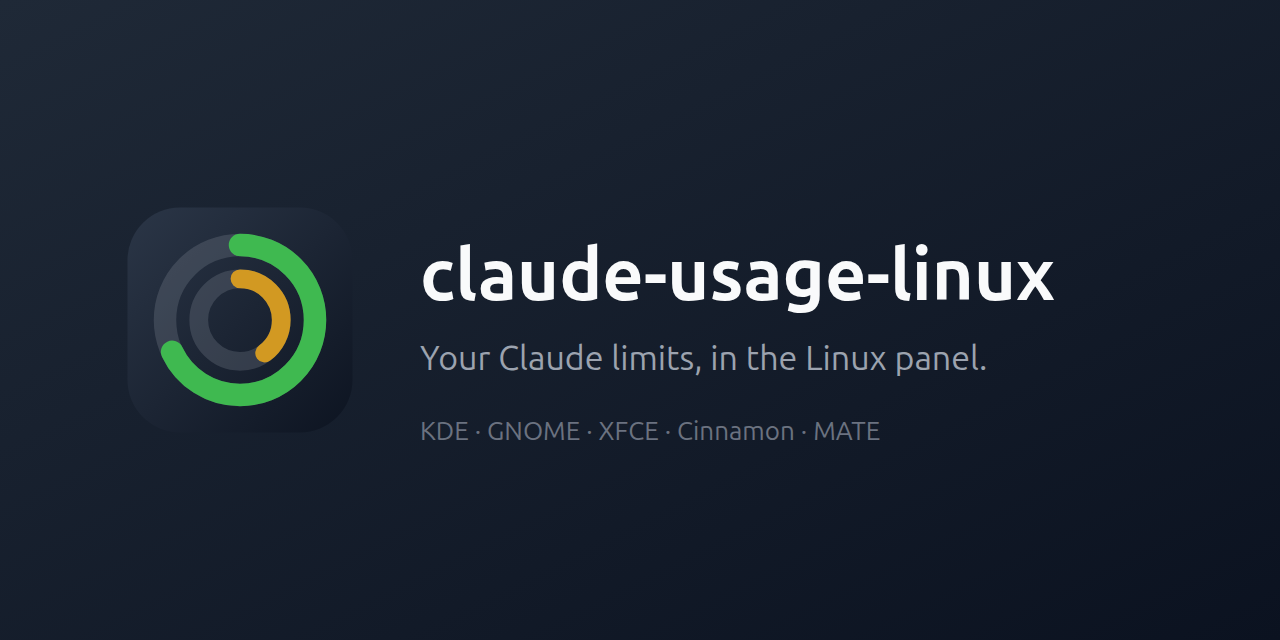
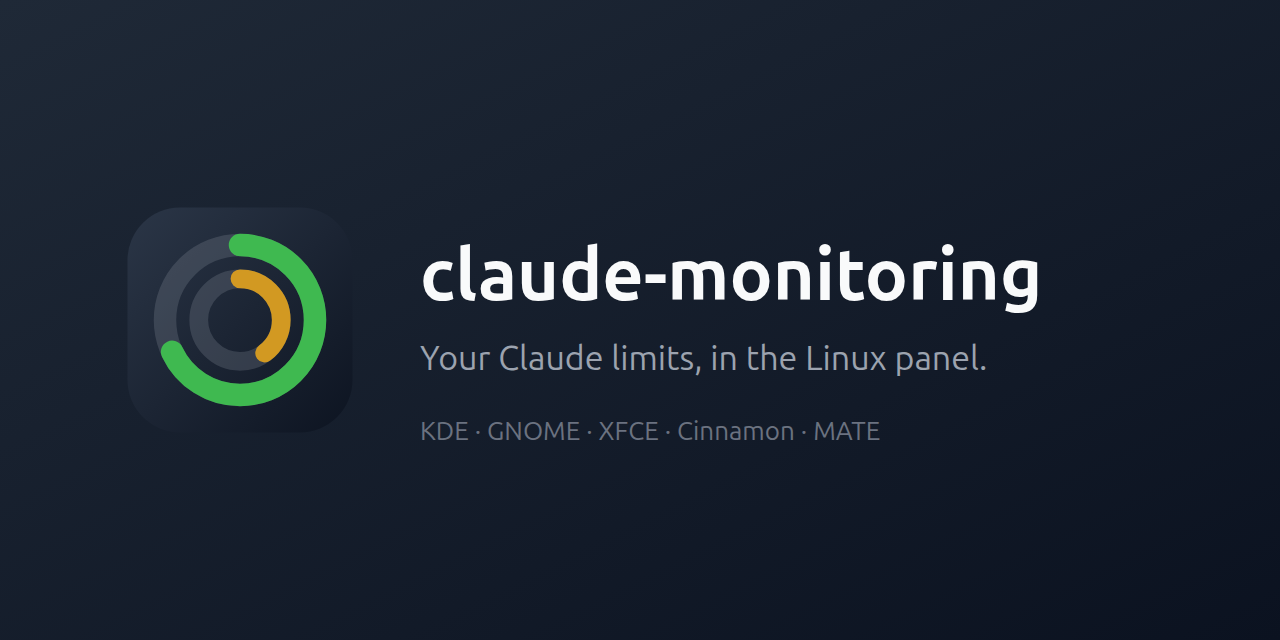
Rename to claude-monitoring (2.0.0)
Rename the repository, Debian package, command, Python module, config
folder and all URLs from claude-usage-linux to claude-monitoring.

- The new package Conflicts/Replaces/Provides claude-usage-linux, so
  installing it removes the old one.
- install.sh removes the old apt source and key first (its URL no longer
  exists, so apt update would fail) and stops the old running app.
- The config falls back to ~/.config/claude-usage-linux/config.json.

Changed region(s): [[0.5312, 0.375, 0.8438, 0.5]]

diff --git a/tests/test_install_script.py b/tests/test_install_script.py
@@ -9,7 +9,7 @@ from pathlib import Path
 ROOT = Path(__file__).resolve().parent.parent
 SCRIPT = ROOT / "install.sh"
 ONE_LINER = (
-    "curl -fsSL https://raw.githubusercontent.com/abdulahwahdi/claude-usage-linux/main/install.sh | sh"
+    "curl -fsSL https://raw.githubusercontent.com/abdulahwahdi/claude-monitoring/main/install.sh | sh"
 )
 DEB = b"fake deb\n"
 
@@ -28,7 +28,7 @@ echo "curl $url" >> "$STUB_LOG"
 case "$url" in
     *.gpg) [ -n "${CURL_KEY_FAIL:-}" ] && exit 22; printf KEY > "$out" ;;
     *.deb) printf 'fake deb\\n' > "${url##*/}" ;;
-    *SHA256SUMS) printf '%s  claude-usage-linux_all.deb\\n' "$DEB_SHA" > SHA256SUMS ;;
+    *SHA256SUMS) printf '%s  claude-monitoring_all.deb\\n' "$DEB_SHA" > SHA256SUMS ;;
 esac
 """
 
@@ -73,24 +73,36 @@ class InstallScriptTests(unittest.TestCase):
 
     def test_adds_signed_repository_and_installs(self):
         log = self._run()
-        keyring = self.root / "etc/apt/keyrings/claude-usage-linux.gpg"
-        listing = self.root / "etc/apt/sources.list.d/claude-usage-linux.list"
+        keyring = self.root / "etc/apt/keyrings/claude-monitoring.gpg"
+        listing = self.root / "etc/apt/sources.list.d/claude-monitoring.list"
         self.assertEqual(keyring.read_text(), "KEY")
         self.assertEqual(
             listing.read_text(),
-            "deb [signed-by=/etc/apt/keyrings/claude-usage-linux.gpg] "
-            "https://abdulahwahdi.github.io/claude-usage-linux/ ./\n",
+            "deb [signed-by=/etc/apt/keyrings/claude-monitoring.gpg] "
+            "https://abdulahwahdi.github.io/claude-monitoring/ ./\n",
         )
-        self.assertEqual(log[-2:], ["apt-get update", "apt-get install -y claude-usage-linux"])
+        self.assertEqual(log[-2:], ["apt-get update", "apt-get install -y claude-monitoring"])
+
+    def test_removes_pre_rename_repository(self):
+        old_list = self.root / "etc/apt/sources.list.d/claude-usage-linux.list"
+        old_key = self.root / "etc/apt/keyrings/claude-usage-linux.gpg"
+        for path in (old_list, old_key):
+            path.parent.mkdir(parents=True, exist_ok=True)
+            path.write_text("old")
+        log = self._run()
+        self.assertFalse(old_list.exists())
+        self.assertFalse(old_key.exists())
+        self.assertTrue((self.root / "etc/apt/sources.list.d/claude-monitoring.list").exists())
+        self.assertEqual(log[-1], "apt-get install -y claude-monitoring")
 
     def test_falls_back_to_release_deb_when_repository_missing(self):
         log = self._run(CURL_KEY_FAIL="1")
         self.assertFalse((self.root / "etc").exists())
         self.assertIn(
-            "curl https://github.com/abdulahwahdi/claude-usage-linux/releases/latest/download/SHA256SUMS",
+            "curl https://github.com/abdulahwahdi/claude-monitoring/releases/latest/download/SHA256SUMS",
             log,
         )
-        self.assertRegex(log[-1], r"^apt-get install -y /.*/claude-usage-linux_all\.deb$")
+        self.assertRegex(log[-1], r"^apt-get install -y /.*/claude-monitoring_all\.deb$")
 
     def test_fallback_rejects_checksum_mismatch(self):
         result = subprocess.run(

diff --git a/scripts/render-readme-images.py b/scripts/render-readme-images.py
@@ -6,7 +6,7 @@ import sys
 
 sys.path.insert(0, os.path.join(os.path.dirname(__file__), "..", "src"))
 
-from claude_usage_linux.icon import build_svg  # noqa: E402
+from claude_monitoring.icon import build_svg  # noqa: E402
 
 OUT = os.path.join(os.path.dirname(__file__), "..", "docs", "img")
 FONT = "font-family=\"-apple-system,'Segoe UI',Ubuntu,Cantarell,'DejaVu Sans',sans-serif\""
@@ -74,7 +74,7 @@ def hero():
         y += 34
     # Tagline on the left
     p.append(icon(42, 17, 40, 82, 96))
-    p.append('<text x="40" y="218" %s font-size="30" font-weight="700" fill="#f9fafb">claude-usage-linux</text>' % FONT)
+    p.append('<text x="40" y="218" %s font-size="30" font-weight="700" fill="#f9fafb">claude-monitoring</text>' % FONT)
     p.append('<text x="40" y="246" %s font-size="15" fill="#9ca3af">Your Claude limits, in the panel.</text>' % FONT)
     p.append("</svg>\n")
     return "".join(p)
@@ -119,7 +119,7 @@ def social():
         '<defs><linearGradient id="bg" x1="0" y1="0" x2="1" y2="1">'
         '<stop offset="0" stop-color="#1f2937"/><stop offset="1" stop-color="#0b1220"/></linearGradient></defs>'
         '<rect width="1280" height="640" fill="url(#bg)"/>' + mark +
-        '<text x="420" y="300" %s font-size="72" font-weight="700" fill="#f9fafb">claude-usage-linux</text>' % FONT +
+        '<text x="420" y="300" %s font-size="72" font-weight="700" fill="#f9fafb">claude-monitoring</text>' % FONT +
         '<text x="420" y="370" %s font-size="34" fill="#9ca3af">Your Claude limits, in the Linux panel.</text>' % FONT +
         '<text x="420" y="440" %s font-size="26" fill="#6b7280">KDE · GNOME · XFCE · Cinnamon · MATE</text>' % FONT +
         "</svg>\n"
@@ -127,7 +127,7 @@ def social():
 
 
 if __name__ == "__main__":
-    with open(os.path.join(os.path.dirname(__file__), "..", "packaging", "claude-usage-linux.svg"), "w") as f:
+    with open(os.path.join(os.path.dirname(__file__), "..", "packaging", "claude-monitoring.svg"), "w") as f:
         f.write(logo())
     os.makedirs(OUT, exist_ok=True)
     for name, svg in (("hero.svg", hero()), ("states.svg", states()), ("social-preview.svg", social())):

diff --git a/src/claude_monitoring/app.py b/src/claude_monitoring/app.py
@@ -52,7 +52,7 @@ def _import_gi():
             from gi.repository import AppIndicator3 as AppIndicator
         from gi.repository import GLib, Gtk
     except (ImportError, ValueError) as exc:
-        print("claude-usage-linux needs PyGObject, GTK 3 and AppIndicator typelibs (%s).\n"
+        print("claude-monitoring needs PyGObject, GTK 3 and AppIndicator typelibs (%s).\n"
               "Debian/Ubuntu: sudo apt install python3-gi python3-gi-cairo gir1.2-gtk-3.0 "
               "gir1.2-ayatanaappindicator3-0.1" % exc, file=sys.stderr)
         sys.exit(1)
@@ -72,7 +72,7 @@ class TrayApp:
         self.icon_dir = icon.cache_dir()
         path = icon.render_icon(None, None, "error", self.icon_dir)
         self.indicator = AppIndicator.Indicator.new(
-            "claude-usage-linux", os.path.splitext(os.path.basename(path))[0],
+            "claude-monitoring", os.path.splitext(os.path.basename(path))[0],
             AppIndicator.IndicatorCategory.APPLICATION_STATUS)
         self.indicator.set_icon_theme_path(self.icon_dir)
         self.indicator.set_status(AppIndicator.IndicatorStatus.ACTIVE)
@@ -246,9 +246,9 @@ def main():
     lock = instance.acquire(icon.cache_dir())
     if lock is None:
         if instance.notify_running(icon.cache_dir()):
-            print("claude-usage-linux is already running; showing its window.")
+            print("claude-monitoring is already running; showing its window.")
         else:
-            print("claude-usage-linux is already running.")
+            print("claude-monitoring is already running.")
         return
     TrayApp().start()
 

diff --git a/tests/test_config.py b/tests/test_config.py
@@ -1,0 +1,31 @@
+import json
+import os
+import tempfile
+import unittest
+
+from claude_monitoring import config
+
+
+class ConfigPathTests(unittest.TestCase):
+    def _write(self, base, name, data):
+        os.makedirs(os.path.join(base, name))
+        with open(os.path.join(base, name, "config.json"), "w") as fh:
+            json.dump(data, fh)
+
+    def test_new_path_by_default(self):
+        with tempfile.TemporaryDirectory() as d:
+            self.assertEqual(config.config_path({"XDG_CONFIG_HOME": d}),
+                             os.path.join(d, "claude-monitoring", "config.json"))
+
+    def test_falls_back_to_pre_rename_config(self):
+        with tempfile.TemporaryDirectory() as d:
+            self._write(d, "claude-usage-linux", {"poll_interval_seconds": 300})
+            env = {"XDG_CONFIG_HOME": d}
+            self.assertIn("claude-usage-linux", config.config_path(env))
+            self.assertEqual(config.load_config(env=env).poll_interval_seconds, 300)
+
+    def test_new_config_wins_over_old(self):
+        with tempfile.TemporaryDirectory() as d:
+            self._write(d, "claude-usage-linux", {"poll_interval_seconds": 300})
+            self._write(d, "claude-monitoring", {"poll_interval_seconds": 60})
+            self.assertEqual(config.load_config(env={"XDG_CONFIG_HOME": d}).poll_interval_seconds, 60)

diff --git a/tests/test_apt_repo.py b/tests/test_apt_repo.py
@@ -3,16 +3,16 @@ import unittest
 from pathlib import Path
 
 ROOT = Path(__file__).resolve().parent.parent
-BASE_URL = "https://abdulahwahdi.github.io/claude-usage-linux/"
+BASE_URL = "https://abdulahwahdi.github.io/claude-monitoring/"
 
 
 class AptRepoTests(unittest.TestCase):
     def test_readme_urls_are_produced_by_build_script(self):
         readme = (ROOT / "README.md").read_text(encoding="utf-8")
         script = (ROOT / "scripts" / "build-apt-repo.sh").read_text(encoding="utf-8")
-        self.assertIn(BASE_URL + "claude-usage-linux.gpg", readme)
+        self.assertIn(BASE_URL + "claude-monitoring.gpg", readme)
         self.assertIn('URL="%s"' % BASE_URL, script)
-        for name in ("Release", "Release.gpg", "InRelease", "Packages.gz", "claude-usage-linux.gpg"):
+        for name in ("Release", "Release.gpg", "InRelease", "Packages.gz", "claude-monitoring.gpg"):
             self.assertIn(name, script)
 
     def test_workflow_deploys_signed_tag_builds_to_pages(self):

diff --git a/tests/test_instance.py b/tests/test_instance.py
@@ -3,7 +3,7 @@ import signal
 import tempfile
 import unittest
 
-from claude_usage_linux import instance, update
+from claude_monitoring import instance, update
 
 
 class InstanceTests(unittest.TestCase):
@@ -45,9 +45,9 @@ class InstanceTests(unittest.TestCase):
 class UpdateTests(unittest.TestCase):
     def test_installed_from_package(self):
         self.assertTrue(update.installed_from_package(
-            "/usr/lib/python3/dist-packages/claude_usage_linux/update.py"))
+            "/usr/lib/python3/dist-packages/claude_monitoring/update.py"))
         self.assertFalse(update.installed_from_package(
-            os.path.expanduser("~/.local/lib/python3.12/site-packages/claude_usage_linux/update.py")))
+            os.path.expanduser("~/.local/lib/python3.12/site-packages/claude_monitoring/update.py")))
 
     def test_update_command_uses_installer(self):
         self.assertIn("install.sh", update.UPDATE_COMMAND)

diff --git a/src/claude_monitoring/details.py b/src/claude_monitoring/details.py
@@ -140,11 +140,11 @@ class DetailsWindow:
         settings = Gtk.Settings.get_default()
         if settings is not None:
             settings.set_property("gtk-application-prefer-dark-theme", True)
-        self.win = Gtk.Window(title="Claude Usage")
-        self.win.set_icon_name("claude-usage-linux")
+        self.win = Gtk.Window(title="Claude Monitoring")
+        self.win.set_icon_name("claude-monitoring")
         self.win.set_resizable(False)
         self.win.set_position(Gtk.WindowPosition.CENTER)
-        self.header = Gtk.HeaderBar(title="Claude Usage", show_close_button=True)
+        self.header = Gtk.HeaderBar(title="Claude Monitoring", show_close_button=True)
         refresh = Gtk.Button.new_from_icon_name("view-refresh-symbolic", Gtk.IconSize.BUTTON)
         refresh.set_tooltip_text("Refresh now")
         refresh.connect("clicked", lambda _b: on_refresh())

diff --git a/tests/test_version.py b/tests/test_version.py
@@ -2,7 +2,7 @@ import re
 import unittest
 from pathlib import Path
 
-import claude_usage_linux
+import claude_monitoring
 
 CHANGELOG = Path(__file__).resolve().parent.parent / "debian" / "changelog"
 
@@ -10,10 +10,10 @@ CHANGELOG = Path(__file__).resolve().parent.parent / "debian" / "changelog"
 class VersionTests(unittest.TestCase):
     def test_changelog_matches_package_version(self):
         first_line = CHANGELOG.read_text(encoding="utf-8").splitlines()[0]
-        match = re.match(r"^claude-usage-linux \(([^)]+)\)", first_line)
+        match = re.match(r"^claude-monitoring \(([^)]+)\)", first_line)
         self.assertIsNotNone(match, first_line)
         version = re.sub(r"-[^-]+$", "", match.group(1))
-        self.assertEqual(version, claude_usage_linux.__version__)
+        self.assertEqual(version, claude_monitoring.__version__)
 
 
 if __name__ == "__main__":

diff --git a/src/claude_monitoring/config.py b/src/claude_monitoring/config.py
@@ -1,4 +1,4 @@
-"""Small config loader: env vars override ~/.config/claude-usage-linux/config.json."""
+"""Small config loader: env vars override ~/.config/claude-monitoring/config.json."""
 
 import json
 import os
@@ -18,8 +18,13 @@ class Config:
 
 
 def config_path(env=os.environ):
+    """The config file, falling back to the pre-2.0.0 claude-usage-linux one."""
     base = env.get("XDG_CONFIG_HOME") or os.path.expanduser("~/.config")
-    return os.path.join(base, "claude-usage-linux", "config.json")
+    path = os.path.join(base, "claude-monitoring", "config.json")
+    old = os.path.join(base, "claude-usage-linux", "config.json")
+    if not os.path.exists(path) and os.path.exists(old):
+        return old
+    return path
 
 
 def load_config(path=None, env=os.environ) -> Config:

diff --git a/src/claude_monitoring/icon.py b/src/claude_monitoring/icon.py
@@ -15,9 +15,9 @@ INNER = (6.5, 2.0)
 def cache_dir(env=os.environ) -> str:
     base = env.get("XDG_RUNTIME_DIR")
     if base and os.path.isdir(base):
-        path = os.path.join(base, "claude-usage-linux")
+        path = os.path.join(base, "claude-monitoring")
     else:
-        path = os.path.join(os.path.expanduser("~/.cache"), "claude-usage-linux")
+        path = os.path.join(os.path.expanduser("~/.cache"), "claude-monitoring")
     os.makedirs(path, exist_ok=True)
     return path
 

diff --git a/src/claude_monitoring/update.py b/src/claude_monitoring/update.py
@@ -2,7 +2,7 @@
 
 import os
 
-INSTALLER_URL = "https://raw.githubusercontent.com/abdulahwahdi/claude-usage-linux/main/install.sh"
+INSTALLER_URL = "https://raw.githubusercontent.com/abdulahwahdi/claude-monitoring/main/install.sh"
 UPDATE_COMMAND = "curl -fsSL %s | sh" % INSTALLER_URL
 PIP_HINT = "Update with: pip install --user --upgrade ."
 PACKAGE_PREFIX = "/usr/lib/python3/"

diff --git a/tests/test_details.py b/tests/test_details.py
@@ -1,8 +1,8 @@
 import unittest
 from datetime import datetime, timedelta, timezone
 
-from claude_usage_linux import details
-from claude_usage_linux.usage import UsageWindow
+from claude_monitoring import details
+from claude_monitoring.usage import UsageWindow
 
 try:
     import cairo
